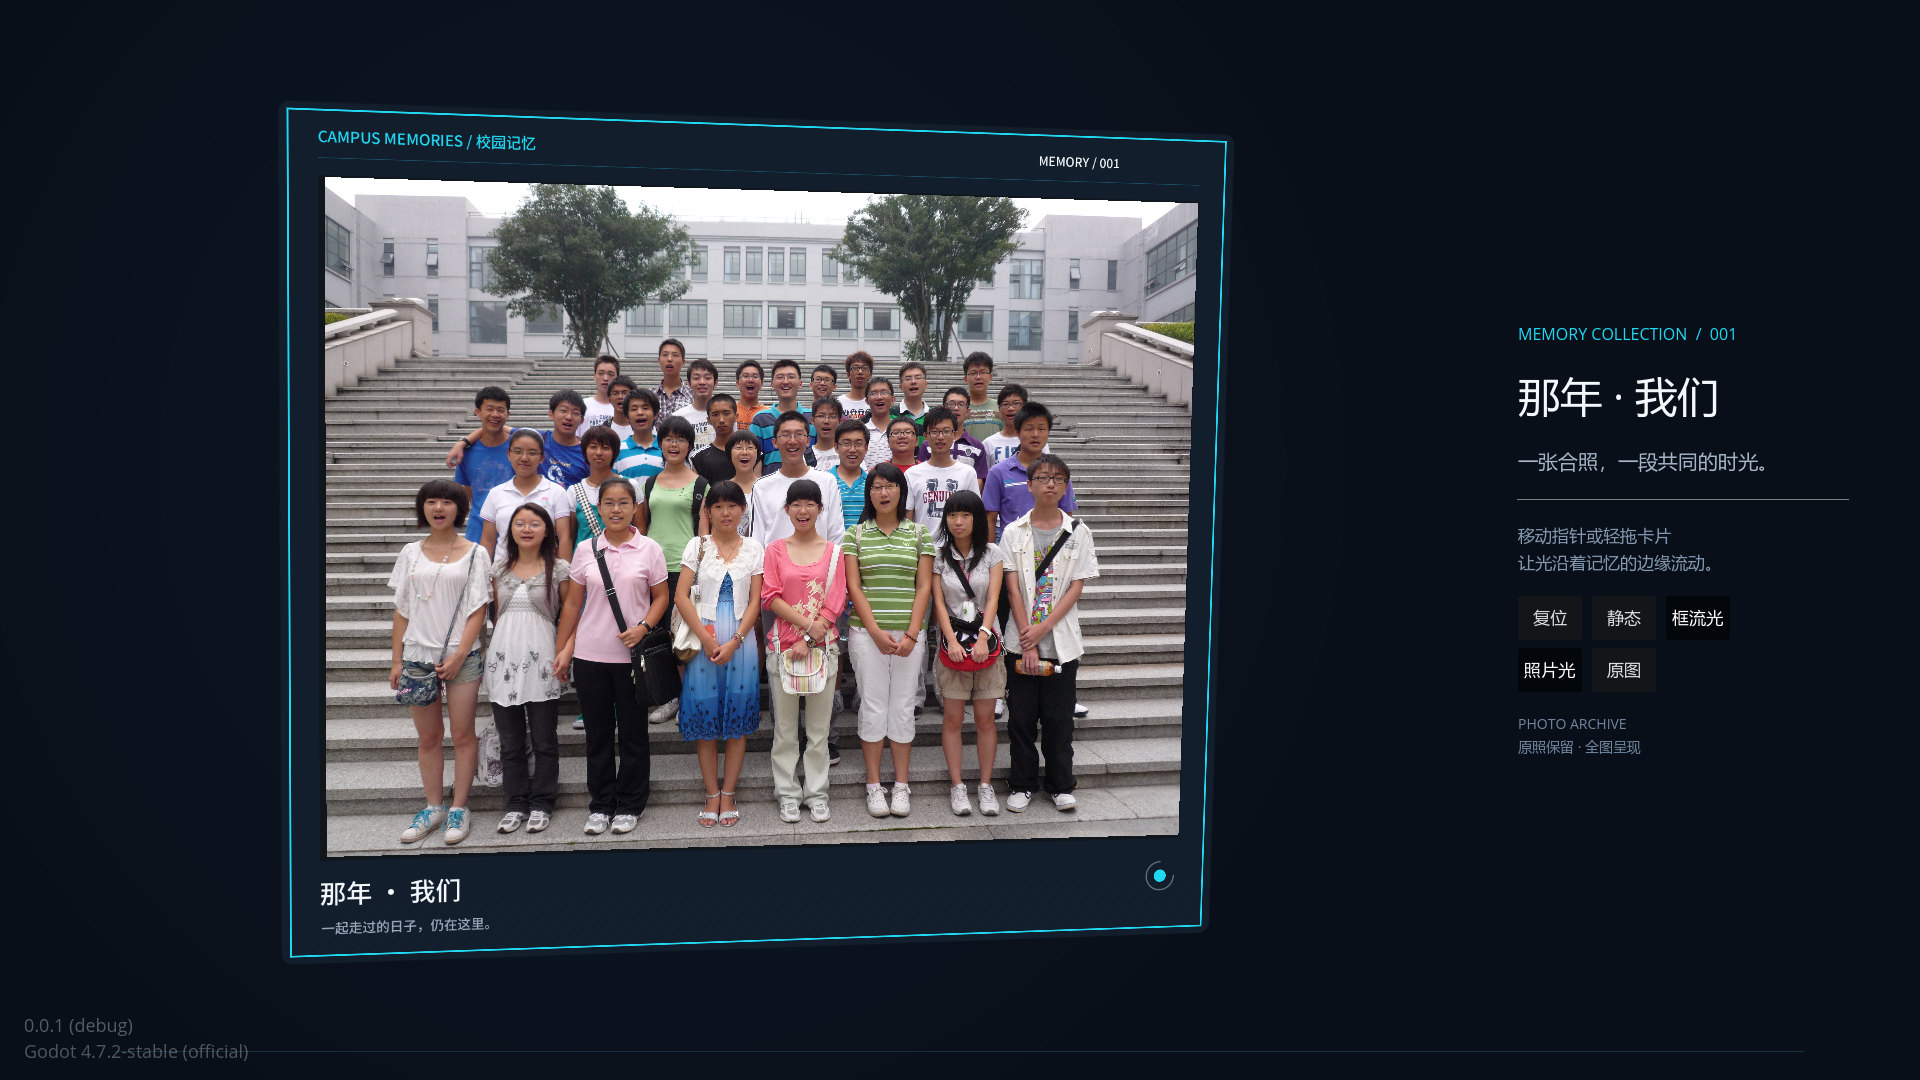
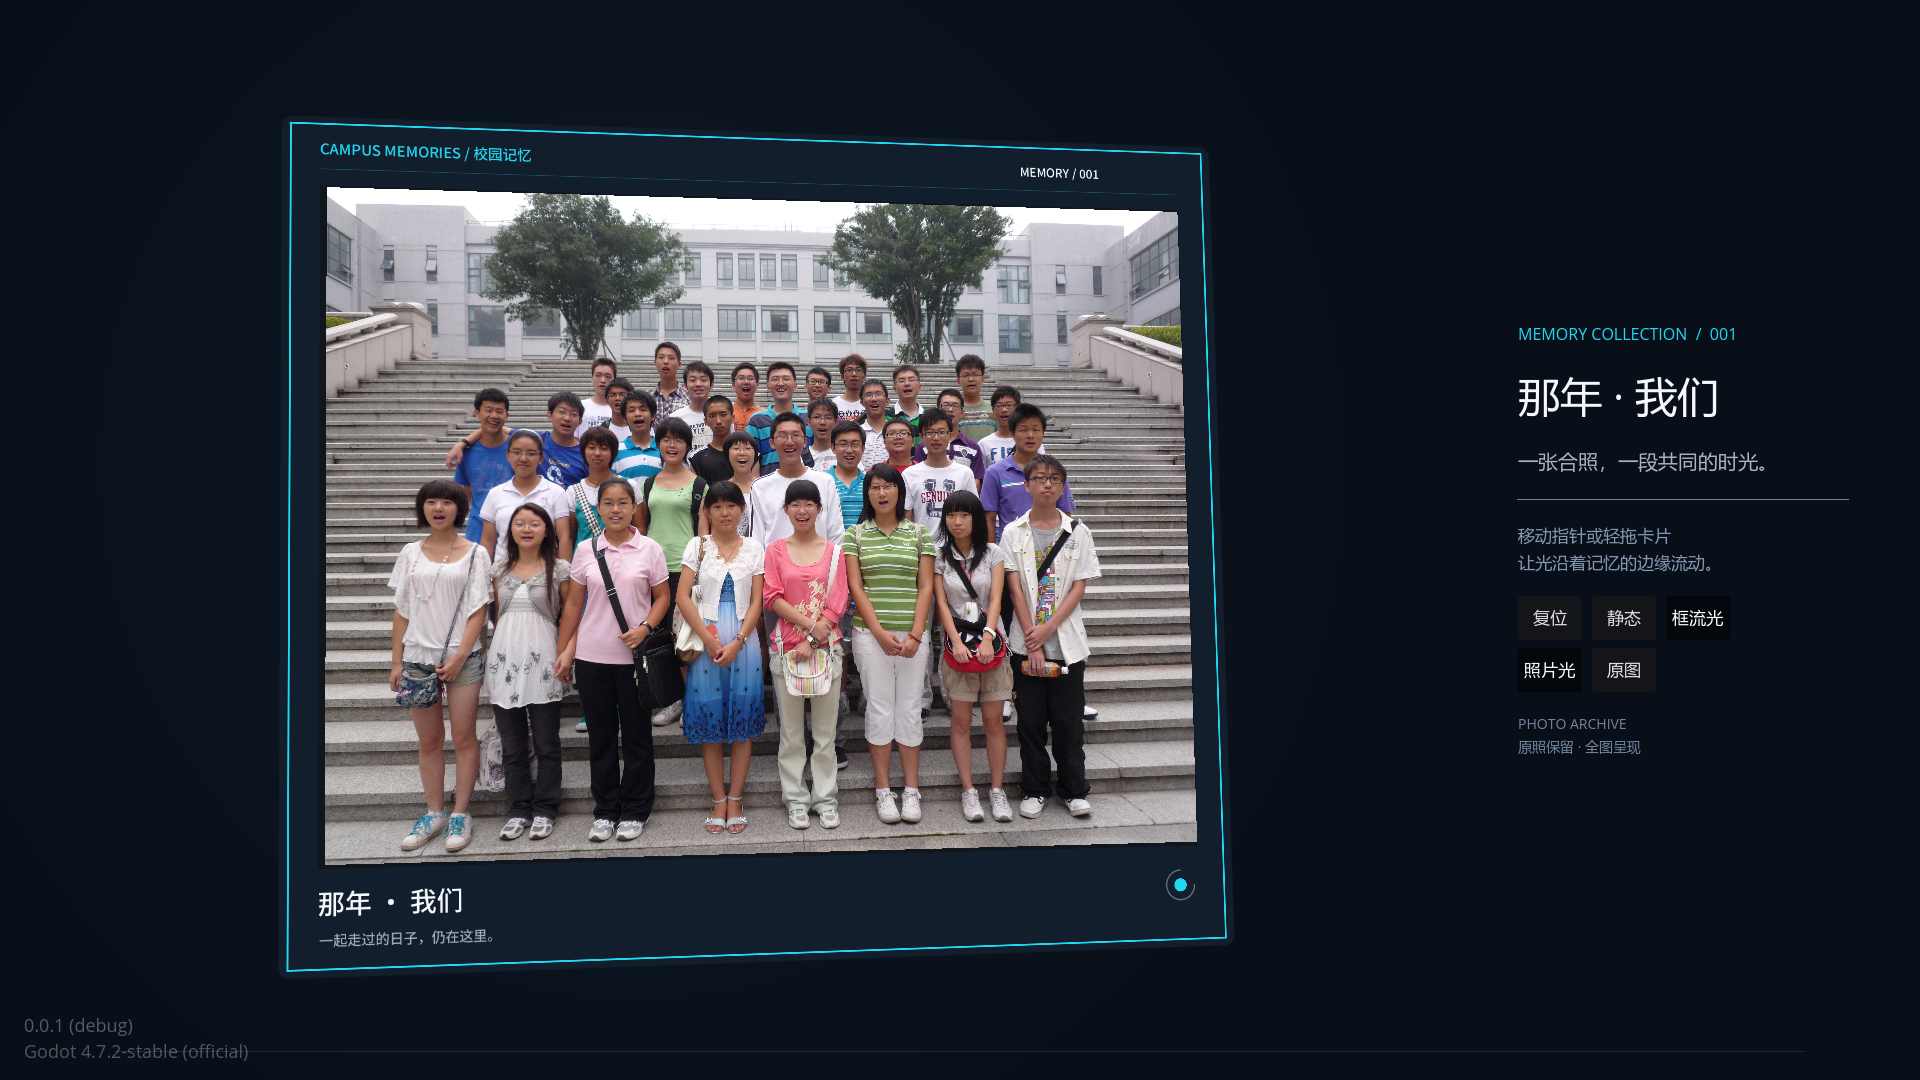
fix(art): align vertical card tilt with horizontal pointer response

Changed region(s): [[0.1562, 0.0917, 0.625, 0.8861], [0.3438, 0.8556, 0.625, 0.8861]]

diff --git a/docs/implementation/art-06.md b/docs/implementation/art-06.md
@@ -6,6 +6,8 @@
 
 ## 验证
 
+- 2026-09-16 倾斜方向修复，基线 `3023205`：屏幕 Y 向下而旋转矩阵 pitch 未反号，导致上下与左右方向相反。仅反转垂直角，不改输入、流光或照片位移。新增 `scenes/holo_card/check_tilt_direction.tscn`，通过实际组件鼠标事件入口驱动四向输入并测量 GPU 渲染透明轮廓：修复前左右通过、上下失败（指针侧跨度 602 > 对侧 578），修复后四向通过（上下 578 < 602，左右 504 < 524）。用 Godot `--path . --rendering-method gl_compatibility res://scenes/holo_card/check_tilt_direction.tscn` 重跑，failures=0；既有 `--card-check` 全部通过，覆盖四分辨率及独立流光开关。证据位于 review/codex-workflow/tilt-direction/，含 up-before.png 与 checks-before.json；最终场景测试无脚本／shader 报错。初次脚本型测试触发项目 autoload 对 current_scene 的空引用，已改为常规场景测试避免该无关启动问题。
+
 - 2026-09-16 照片流光增量，基线 `3f28db6`：002 新增照片虹彩和“照片光”独立按钮，原“流光”改称“框流光”；001 兼容保持无照片镀膜。使用 Godot console `--path . --rendering-method gl_compatibility res://scenes/holo_card/holo_card_preview.tscn -- --card-check` 直接运行（不经过有 EditorSettings 提示的导入步骤），结果 failures=0，无运行报错。检查覆盖四分辨率、新按钮信号连接、独立开关的照片区域像素、竖图留边不着色、静态稳定和既有交互。截图及 checks.json 位于原证据目录下 photo-foil-002/，旧证据保留。实际鼠标／手机触摸端到端和 Web 仍未验收。
 
 - 日期：2026-09-16；基线 main d01b03e，新分支 art/class-photo-holo-card 的本功能提交。

diff --git a/docs/art/tasks/class-photo-holo-card.md b/docs/art/tasks/class-photo-holo-card.md
@@ -2,6 +2,8 @@
 
 ## 当前候选 002：照片流光与独立开关
 
+接入修正（2026-09-16，基线 3023205）：用户反馈上下倾斜反向并要求修复。现仅反转 shader 垂直角度，使上下与左右均为指针所在一侧后倾；原照片及流光参数不变。四向实际渲染测量和原有检查通过，对照证据位于 `design/concepts/class-photo-holo-card/review/codex-workflow/tilt-direction/`；接入效果仍待用户评审，不据此升级资产批准。
+
 2026-09-16 用户要求“还有能否给原图也加上流光效果？而不只有边框”，随后要求“新增一种开关”。本次授权范围为照片表面柔和虹彩扫光及独立控制，不是对最终视觉的批准。
 
 002 资源：`design/concepts/class-photo-holo-card/card/002/card.tres`，共用 001 原始 JPEG。默认预览已切至 002；001 资源仍保持照片流光强度 0。按工作流保留旧证据，新增实际渲染和 checks.json 位于 `design/concepts/class-photo-holo-card/review/codex-workflow/photo-foil-002/`。对照 photo-before / photo-after；photo-switch-off 仅关闭照片光；photo-only 仅开启照片光。
